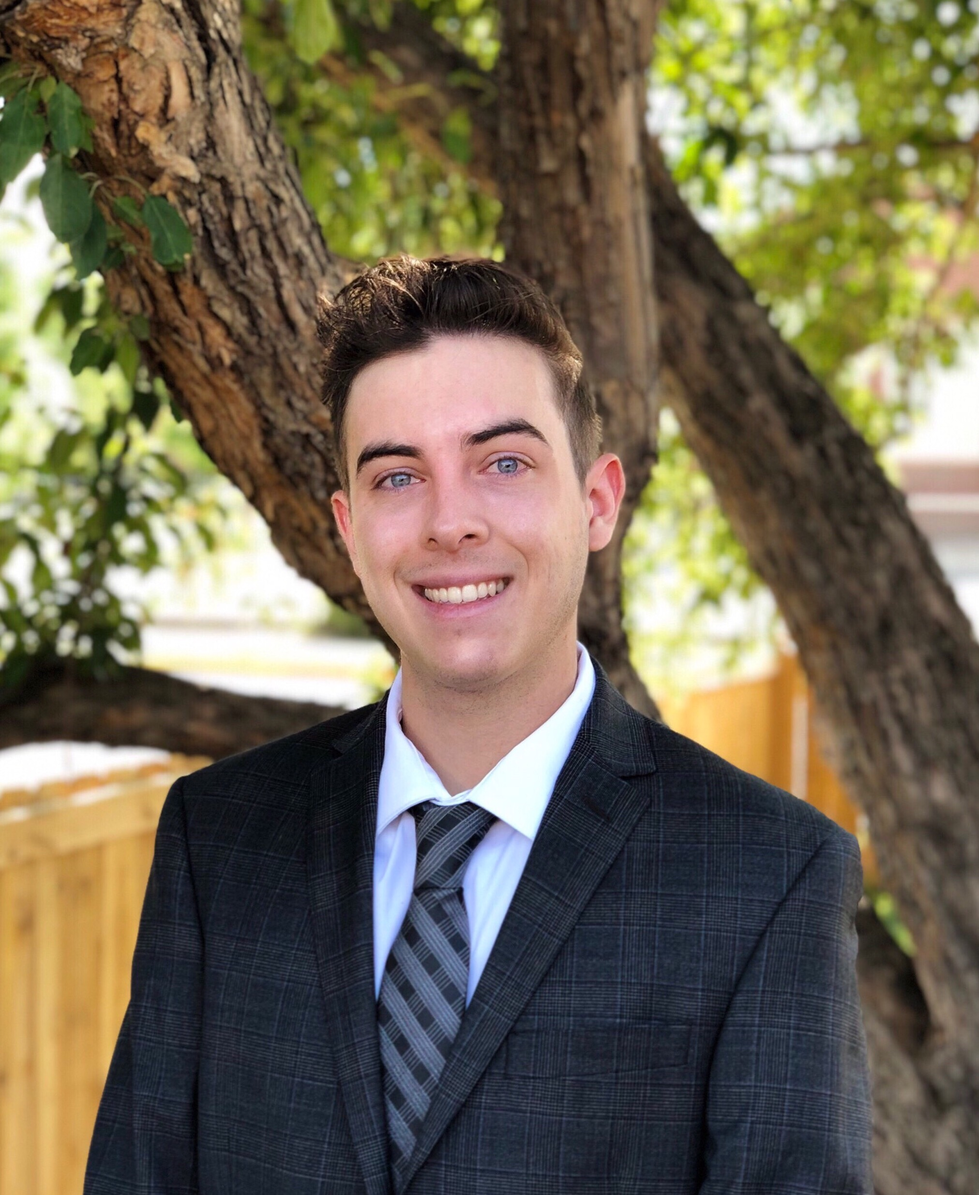
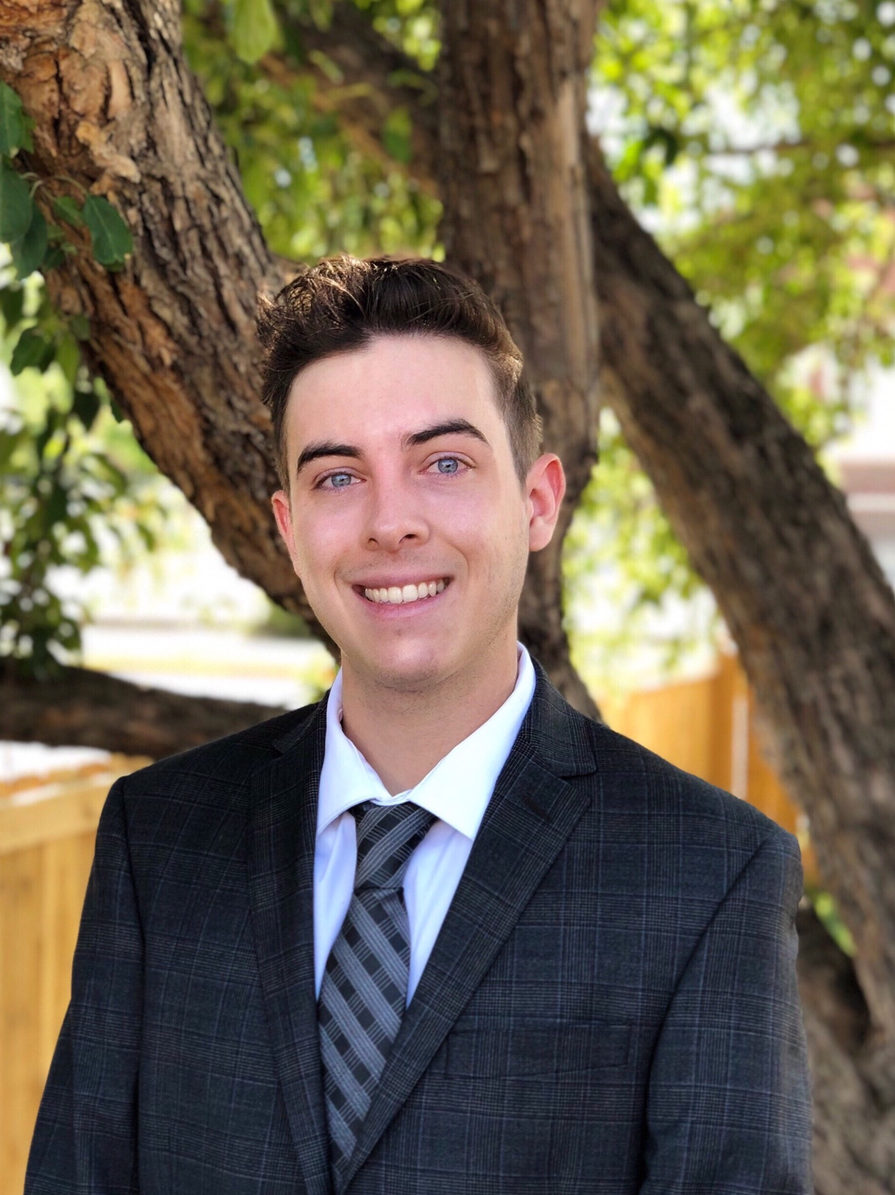
Added font style

diff --git a/index.html b/index.html
@@ -2,12 +2,33 @@
 <html>
     <head>
         <title>CodyWalker</title>
+
+    <link href="https://fonts.googleapis.com/css?family=Raleway&display=swap" rel="stylesheet">
+    <style>
+        body {
+            font-family: 'Raleway';
+            font-size: 32px;
+        }
+        p  {
+          font-family: 'Raleway';
+          font-size: 70%;
+        }
+    </style>
     </head>
     <body>
-        <h1>CODY J WALKER</h1>
-
-        <img src="CodeWalk.JPEG" alt="Cody Walker" style="width:249px;height:332px;">
-        <a href="https://www.github.com/codyjwalker/">GitHub</a>
-        <a href="https://www.linkedin.com/in/cody-walker-54117b188/">LinkedIn</a>
+        <body bgcolor="#F6ECC2">
+        <center>
+            <h1>Cody Walker</h1>
+            <img src="CodeWalk.JPEG" alt="Cody Walker" style="width:308px;height:411px;">
+            <p>
+            <a href="https://www.github.com/codyjwalker/">GitHub</a>
+            </p>
+            <p>
+            <a href="https://www.linkedin.com/in/cody-walker-54117b188/">LinkedIn</a>
+            </p>
+            <p>
+            <a href="Resume.pdf">Resume</a>
+            </p>
+        </center>
     </body>
 </html>
